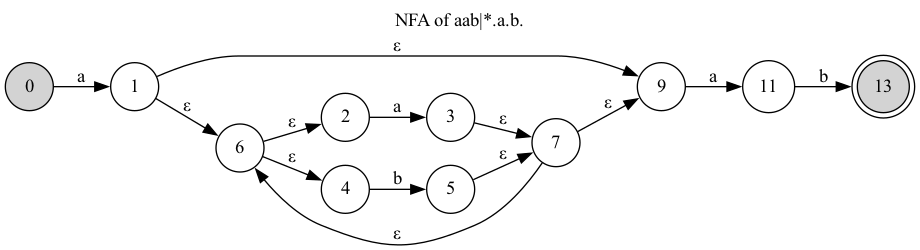
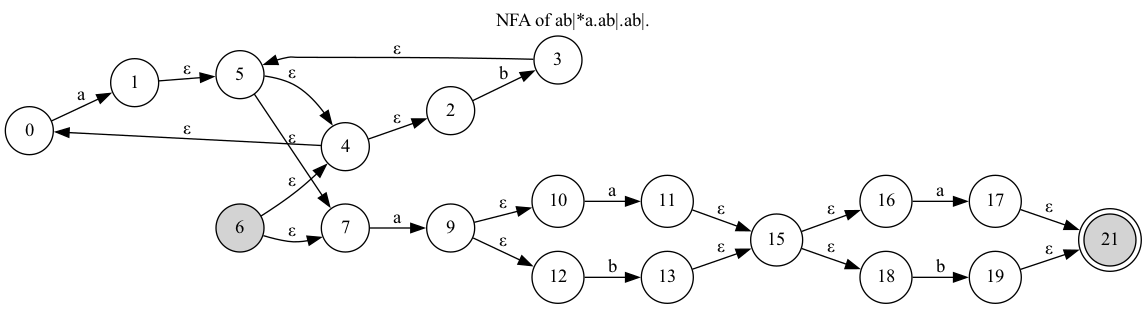
lab A finalizado

diff --git a/Thompson.py b/Thompson.py
@@ -14,11 +14,11 @@ class Thompson(object):
     
     def __init__(self, regex_postfix):
         self.postfix = regex_postfix
-        self.nfa = self.thompson_algorithm()
+        self.nfa = self.thompson_construction()
         self.visualize_nfa()
 
     
-    def thompson_algorithm(self):
+    def thompson_construction(self):
         
         current_state = 0
         stack = []

diff --git a/main.py b/main.py
@@ -10,9 +10,10 @@
 from Postfix import Postfix
 from Thompson import Thompson
 
-r = 'a(a|b)*ab'
+r = '(a|b)*a(a|b)(a|b)'
 
 expression = Postfix(r).postfixExpression
+print(expression)
 afn = Thompson(expression)
 
 
